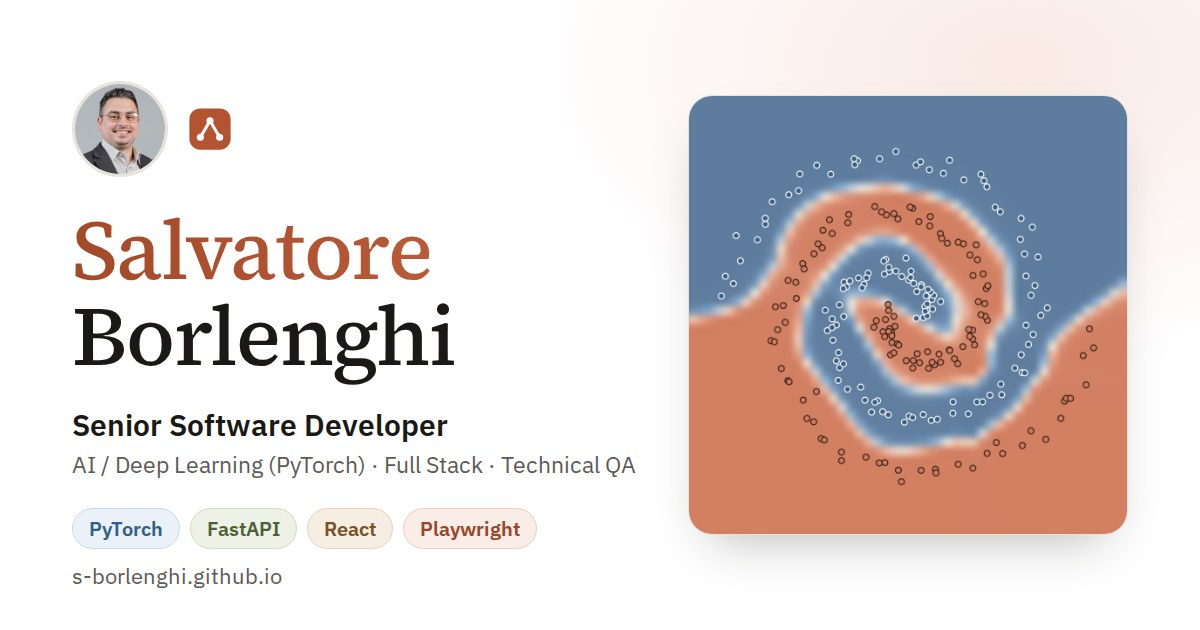
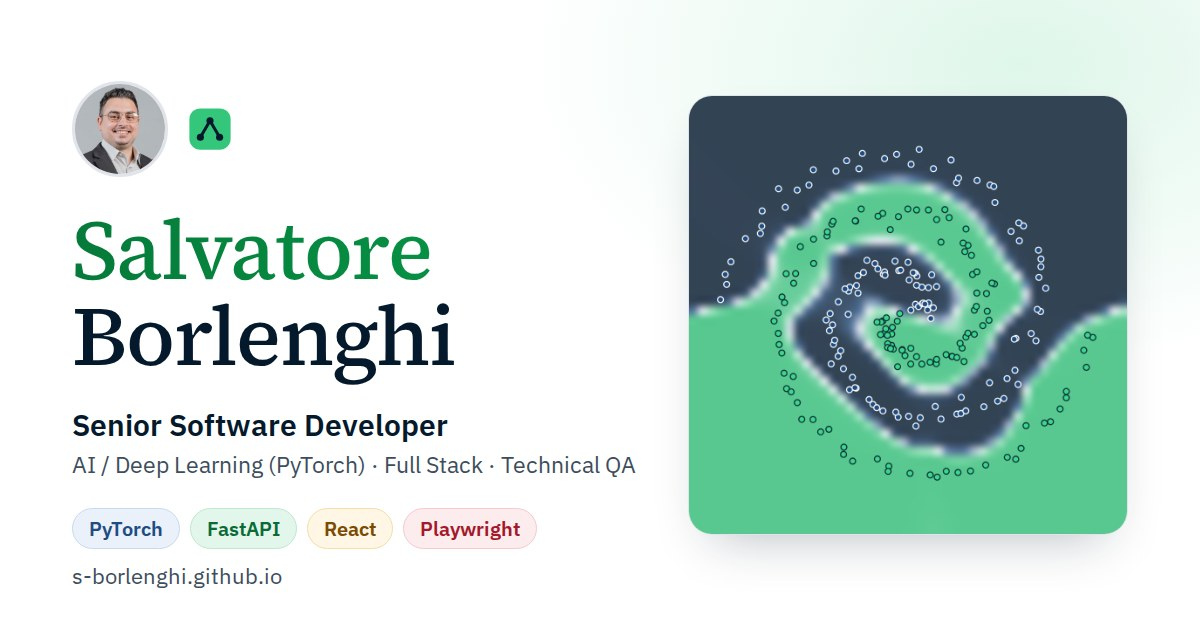
style: tonal buttons in dark theme to avoid glare

diff --git a/assets/css/style.css b/assets/css/style.css
@@ -1,28 +1,28 @@
 /* Salvatore Borlenghi, pagina personale.
-   Impaginazione ispirata a mui.com (fondo bianco, sezioni alternate), geometria,
-   colori caldi e titoli serif ispirati all'app Claude.
+   Impaginazione ispirata a mui.com (fondo bianco, sezioni alternate), geometria e titoli
+   serif ispirati all'app Claude. Palette propria: blu notte e verde morbido.
    Tema scuro predefinito, chiaro con il pulsante in alto. */
 
-/* Tema chiaro predefinito: bianco come mui.com, con i colori caldi di Claude */
+/* Tema chiaro predefinito: bianco, testi blu notte, verde morbido */
 :root {
-  --primary: #b4532f; --primary-hover: #9a4527; --primary-border: #9a4527; --on-primary: #ffffff;
-  --primary-text: #a34a29; --primary-a08: rgba(180,83,47,.06); --primary-a16: rgba(180,83,47,.1); --primary-a50: rgba(180,83,47,.45);
-  --warm-text: #a34a29; --warm-a16: rgba(180,83,47,.1);
-  --bg: #ffffff; --paper: #ffffff; --border: #e8e4dc;
-  --side: linear-gradient(180deg, #fbf7f2 0%, #f6efe7 100%);
-  --section-alt: linear-gradient(180deg, #ffffff 0%, #faf6f0 100%);
-  --text: #1a1915; --text-2: #5c5a55; --action-hover: #f5f2ec;
+  --primary: #34c77b; --primary-hover: #2bb36c; --primary-border: #2bb36c; --on-primary: #05192d;
+  --primary-text: #067a3a; --primary-a08: rgba(52,199,123,.08); --primary-a16: rgba(52,199,123,.16); --primary-a50: rgba(6,122,58,.45);
+  --warm-text: #067a3a; --warm-a16: rgba(52,199,123,.14);
+  --bg: #ffffff; --paper: #ffffff; --border: #e1e4ea;
+  --side: linear-gradient(180deg, #f3f4f8 0%, #eef8f2 100%);
+  --section-alt: linear-gradient(180deg, #ffffff 0%, #f3f4f8 100%);
+  --text: #05192d; --text-2: #3d4d5c; --action-hover: #f3f4f8;
   --header-bg: rgba(255,255,255,.88);
-  --card-shadow: 0 1px 2px rgba(26,25,21,.04), 0 2px 8px rgba(26,25,21,.04);
-  --grad: linear-gradient(90deg, #a34a29 0%, #c96442 100%);
-  --sel-bg: #f7e6dd; --sel-text: #8f3f22;
+  --card-shadow: 0 1px 2px rgba(5,25,45,.04), 0 2px 8px rgba(5,25,45,.05);
+  --grad: linear-gradient(90deg, #067a3a 0%, #07a04b 100%);
+  --sel-bg: #e3f6ec; --sel-text: #05502a;
   /* chip colorate */
-  --blue-bg: #eaf1f8; --blue-bd: #c9daec; --blue-tx: #2f5f8a;
-  --green-bg: #eef2e6; --green-bd: #d2dcbf; --green-tx: #4e6136;
-  --amber-bg: #f7eee3; --amber-bd: #e7d3ba; --amber-tx: #7a5224;
-  --red-bg: #faede7; --red-bd: #efcdbe; --red-tx: #9a4527;
+  --blue-bg: #eaf1fb; --blue-bd: #c8daf2; --blue-tx: #1f4c82;
+  --green-bg: #e3f6ec; --green-bd: #bfe8d0; --green-tx: #0b6b36;
+  --amber-bg: #fff6e5; --amber-bd: #f7dca6; --amber-tx: #7a4b00;
+  --red-bg: #fdecee; --red-bd: #f6c9cf; --red-tx: #a3192b;
   /* usati dalla demo */
-  --paper-2: #f6f2ec; --teal: #b4532f;
+  --paper-2: #f3f4f8; --teal: #07a04b;
 
   --radius: 16px; --radius-sm: 10px;
   --font: "IBM Plex Sans", "Helvetica Neue", Arial, sans-serif;
@@ -33,24 +33,24 @@
   padding-bottom: env(safe-area-inset-bottom, 0px);
   color-scheme: light;
 }
-/* Tema scuro: livelli ben separati (sfondo profondo, card più chiare con bordo e ombra) */
+/* Tema scuro: blu notte a livelli ben separati, verde morbido */
 :root[data-theme="dark"] {
-  --primary: #d97757; --primary-hover: #e08a6d; --primary-border: #c9694b; --on-primary: #1a1915;
-  --primary-text: #e8906f; --primary-a08: rgba(217,119,87,.10); --primary-a16: rgba(217,119,87,.18); --primary-a50: rgba(217,119,87,.5);
-  --warm-text: #e8906f; --warm-a16: rgba(217,119,87,.16);
-  --bg: #141311; --paper: #2b2a27; --border: #45423d;
-  --side: radial-gradient(ellipse 70% 60% at 85% 0%, rgba(217,119,87,.16), transparent 70%), #1f1e1b;
-  --section-alt: linear-gradient(180deg, #141311 0%, #1c1b18 100%);
-  --text: #f4f2ec; --text-2: #b9b5ab; --action-hover: rgba(244,242,236,.07);
-  --header-bg: rgba(20,19,17,.88);
+  --primary: #3dd68c; --primary-hover: #5fe0a2; --primary-border: #3dd68c; --on-primary: #05192d;
+  --primary-text: #4fdc97; --primary-a08: rgba(61,214,140,.08); --primary-a16: rgba(61,214,140,.16); --primary-a50: rgba(61,214,140,.5);
+  --warm-text: #4fdc97; --warm-a16: rgba(61,214,140,.14);
+  --bg: #05192d; --paper: #0d2b47; --border: #1e4266;
+  --side: radial-gradient(ellipse 70% 60% at 85% 0%, rgba(61,214,140,.10), transparent 70%), #08213a;
+  --section-alt: linear-gradient(180deg, #05192d 0%, #082139 100%);
+  --text: #ffffff; --text-2: #b6c2cf; --action-hover: rgba(255,255,255,.06);
+  --header-bg: rgba(5,25,45,.9);
   --card-shadow: 0 1px 2px rgba(0,0,0,.35), 0 6px 16px rgba(0,0,0,.25);
-  --grad: linear-gradient(90deg, #e8906f 0%, #f0b08f 100%);
-  --sel-bg: rgba(217,119,87,.22); --sel-text: #f5c1ab;
-  --blue-bg: rgba(106,155,204,.14); --blue-bd: rgba(106,155,204,.38); --blue-tx: #a9c6e3;
-  --green-bg: rgba(120,140,93,.18); --green-bd: rgba(120,140,93,.45); --green-tx: #bfcda6;
-  --amber-bg: rgba(212,162,127,.16); --amber-bd: rgba(212,162,127,.42); --amber-tx: #e6c4a8;
-  --red-bg: rgba(217,119,87,.16); --red-bd: rgba(217,119,87,.42); --red-tx: #f0ae95;
-  --paper-2: #1a1917; --teal: #e8906f;
+  --grad: linear-gradient(90deg, #4fdc97 0%, #8ae9b9 100%);
+  --sel-bg: rgba(61,214,140,.16); --sel-text: #a6f0c9;
+  --blue-bg: rgba(79,140,220,.16); --blue-bd: rgba(79,140,220,.4); --blue-tx: #a9c9f2;
+  --green-bg: rgba(61,214,140,.14); --green-bd: rgba(61,214,140,.4); --green-tx: #8ae9b9;
+  --amber-bg: rgba(245,190,90,.14); --amber-bd: rgba(245,190,90,.4); --amber-tx: #f7d59a;
+  --red-bg: rgba(240,110,120,.14); --red-bd: rgba(240,110,120,.4); --red-tx: #f7b3ba;
+  --paper-2: #05192d; --teal: #4fdc97;
   color-scheme: dark;
 }
 
@@ -78,7 +78,7 @@ a { color: var(--primary-text); text-decoration-color: var(--primary-a50); text-
 .ms { width: 1.25rem; height: 1.25rem; fill: currentColor; flex: none; display: inline-block; vertical-align: middle; }
 
 /* Accessibilità */
-.skip { position: absolute; left: 1rem; top: -4rem; z-index: 100; background: var(--primary); color: #fff; padding: .5rem 1rem; border-radius: var(--radius-sm); font-weight: 600; text-decoration: none; transition: top .15s var(--ease); }
+.skip { position: absolute; left: 1rem; top: -4rem; z-index: 100; background: var(--primary); color: var(--on-primary); padding: .5rem 1rem; border-radius: var(--radius-sm); font-weight: 600; text-decoration: none; transition: top .15s var(--ease); }
 .skip:focus { top: calc(.75rem + env(safe-area-inset-top, 0px)); }
 .sr-only { position: absolute; width: 1px; height: 1px; padding: 0; margin: -1px; overflow: hidden; clip: rect(0 0 0 0); white-space: nowrap; border: 0; }
 main:focus { outline: none; }
@@ -123,8 +123,8 @@ main:focus { outline: none; }
 .brand { display: inline-flex; align-items: center; gap: .625rem; font-family: var(--font); font-size: 1rem; font-weight: 600; letter-spacing: -.005em; color: var(--text); text-decoration: none; margin-right: 1.5rem; white-space: nowrap; }
 .logo { width: 1.875rem; height: 1.875rem; flex: none; }
 .logo rect { fill: var(--primary); }
-.logo path { fill: none; stroke: #ffffff; stroke-width: 2.2; stroke-linejoin: round; }
-.logo circle { fill: #ffffff; }
+.logo path { fill: none; stroke: #05192d; stroke-width: 2.2; stroke-linejoin: round; }
+.logo circle { fill: #05192d; }
 .menu { display: flex; gap: .125rem; margin-right: auto; }
 
 /* Card */
@@ -239,7 +239,7 @@ h3 { font-size: 1.125rem; line-height: 1.4; font-weight: 700; letter-spacing: -.
 .skill:first-child p { font-size: 1rem; max-width: 44rem; }
 .icon-badge { display: inline-grid; place-items: center; width: 2.5rem; height: 2.5rem; border-radius: var(--radius-sm); background: var(--primary-a16); border: 1px solid var(--border); color: var(--primary-text); flex: none; }
 .icon-badge .ms { width: 1.25rem; height: 1.25rem; }
-.skill:first-child .icon-badge { background: var(--primary); border-color: var(--primary-border); color: #fff; }
+.skill:first-child .icon-badge { background: var(--primary); border-color: var(--primary-border); color: var(--on-primary); }
 
 .list { list-style: none; margin: 0; padding: 0; }
 .list > li { display: flex; gap: 1rem; padding: 1.25rem 1.5rem; }
@@ -266,7 +266,7 @@ h3 { font-size: 1.125rem; line-height: 1.4; font-weight: 700; letter-spacing: -.
 .contact .mail { display: inline-block; font-size: clamp(1.25rem, 3vw, 1.5rem); font-weight: 600; margin-bottom: 1.75rem; word-break: break-word; }
 
 /* Pulsante "torna in cima", come il Fab di MUI */
-.fab { position: fixed; z-index: 20; right: calc(1.5rem + env(safe-area-inset-right, 0px)); bottom: calc(1.5rem + env(safe-area-inset-bottom, 0px)); display: grid; place-items: center; width: 3rem; height: 3rem; border-radius: 50%; background: var(--primary); color: #fff; box-shadow: 0 3px 5px -1px rgba(0,0,0,.2), 0 6px 10px 0 rgba(0,0,0,.14), 0 1px 18px 0 rgba(0,0,0,.12); transition: opacity .2s var(--ease), transform .2s var(--ease), visibility .2s, background-color .15s var(--ease); overflow: hidden; isolation: isolate; -webkit-tap-highlight-color: transparent; }
+.fab { position: fixed; z-index: 20; right: calc(1.5rem + env(safe-area-inset-right, 0px)); bottom: calc(1.5rem + env(safe-area-inset-bottom, 0px)); display: grid; place-items: center; width: 3rem; height: 3rem; border-radius: 50%; background: var(--primary); color: var(--on-primary); box-shadow: 0 3px 5px -1px rgba(0,0,0,.2), 0 6px 10px 0 rgba(0,0,0,.14), 0 1px 18px 0 rgba(0,0,0,.12); transition: opacity .2s var(--ease), transform .2s var(--ease), visibility .2s, background-color .15s var(--ease); overflow: hidden; isolation: isolate; -webkit-tap-highlight-color: transparent; }
 .fab .ms { width: 1.5rem; height: 1.5rem; }
 .fab.is-hidden { opacity: 0; visibility: hidden; transform: translateY(1rem) scale(.8); pointer-events: none; }
 /* Footer e pagina Privacy */
@@ -283,6 +283,12 @@ h3 { font-size: 1.125rem; line-height: 1.4; font-weight: 700; letter-spacing: -.
 @media (max-width: 600px) { .legal-card { padding: 1.5rem; } }
 .footer { padding-top: 2.5rem; padding-bottom: 2.5rem; font-size: .8125rem; color: var(--text-2); }
 
+/* Tema scuro: pulsanti "tonali" (verde trasparente), per evitare l'abbagliamento sul blu notte */
+:root[data-theme="dark"] .btn.contained { background: rgba(61,214,140,.18); border-color: rgba(61,214,140,.5); color: #8ae9b9; }
+:root[data-theme="dark"] .fab { background: #124644; color: #8ae9b9; border: 1px solid rgba(61,214,140,.5); }
+:root[data-theme="dark"] .skill:first-child .icon-badge { background: rgba(61,214,140,.18); border-color: rgba(61,214,140,.5); color: #8ae9b9; }
+:root[data-theme="dark"] .skip { background: #124644; color: #8ae9b9; }
+
 /* Passaggio morbido tra tema chiaro e scuro */
 .theme-anim, .theme-anim *, .theme-anim *::before { transition: background-color .3s var(--ease), color .3s var(--ease), border-color .3s var(--ease), fill .3s var(--ease) !important; }
 
@@ -290,6 +296,8 @@ h3 { font-size: 1.125rem; line-height: 1.4; font-weight: 700; letter-spacing: -.
 @media (hover: hover) {
   a:hover { text-decoration-color: currentColor; }
   .btn.contained:hover { background: var(--primary-hover); }
+  :root[data-theme="dark"] .btn.contained:hover { background: rgba(61,214,140,.26); border-color: #3dd68c; }
+  :root[data-theme="dark"] .fab:hover { background: #17564f; }
   .btn.outlined:hover { background: var(--action-hover); border-color: var(--primary-a50); }
   .btn.outlined:hover .ms { color: var(--text); }
   .text-btn:hover, .segmented > *:hover { background: var(--action-hover); }

diff --git a/404.html b/404.html
@@ -12,14 +12,14 @@
   @font-face { font-family: "IBM Plex Sans"; src: url("/assets/fonts/ibm-plex-sans-latin-wght.woff2") format("woff2"); font-weight: 100 700; font-display: swap; }
   :root { box-sizing: border-box; padding-top: env(safe-area-inset-top, 0px); padding-bottom: env(safe-area-inset-bottom, 0px); color-scheme: light; }
   html, body { height: 100%; margin: 0; }
-  body { background: #ffffff; color: #1a1915; font-family: "IBM Plex Sans", Arial, sans-serif; display: grid; place-items: center; text-align: center; padding: 1.5rem; }
-  .code { font-family: "Source Serif 4", Georgia, serif; font-size: clamp(4rem, 18vw, 8rem); line-height: 1; color: #a34a29; margin: 0; }
+  body { background: #ffffff; color: #05192d; font-family: "IBM Plex Sans", Arial, sans-serif; display: grid; place-items: center; text-align: center; padding: 1.5rem; }
+  .code { font-family: "Source Serif 4", Georgia, serif; font-size: clamp(4rem, 18vw, 8rem); line-height: 1; color: #067a3a; margin: 0; }
   h1 { font-family: "Source Serif 4", Georgia, serif; font-weight: 500; font-size: 1.75rem; margin: .75rem 0 .5rem; }
-  p { color: #5c5a55; margin: 0 0 2rem; }
+  p { color: #3d4d5c; margin: 0 0 2rem; }
   a { display: inline-block; margin: .25rem; padding: .7rem 1.2rem; border-radius: 10px; font-weight: 600; text-decoration: none; }
-  .main { background: #b4532f; color: #ffffff; }
-  .alt { border: 1px solid #e8e4dc; color: #1a1915; background: #ffffff; }
-  a:focus-visible { outline: 3px solid rgba(180,83,47,.45); outline-offset: 2px; }
+  .main { background: #34c77b; color: #05192d; }
+  .alt { border: 1px solid #e1e4ea; color: #05192d; background: #ffffff; }
+  a:focus-visible { outline: 3px solid rgba(6,122,58,.45); outline-offset: 2px; }
 </style>
 </head>
 <body>

diff --git a/assets/js/nn-demo.js b/assets/js/nn-demo.js
@@ -12,8 +12,8 @@
   const btn = document.getElementById("nn-toggle");
   const stEpoch = document.getElementById("st-epoch"), stLoss = document.getElementById("st-loss"), stAcc = document.getElementById("st-acc");
   const SIZES = [2, 16, 16, 1], MAX_EPOCHS = 3000, STEPS_PER_FRAME = 2, GRID = 50, SPAN = 1.15;
-  // Colori: dal blu (classe 0) al terracotta (classe 1), passando per un tono carta sul confine
-  const VIRIDIS = [[58, 96, 138], [106, 155, 204], [226, 219, 204], [229, 157, 128], [201, 100, 66]];
+  // Colori: dal blu notte (classe 0) al verde (classe 1), passando per un grigio chiaro sul confine
+  const VIRIDIS = [[5, 25, 45], [31, 76, 130], [214, 222, 232], [140, 220, 180], [52, 190, 120]];
   const viridis = p => {
     const x = Math.min(Math.max(p, 0), 1) * (VIRIDIS.length - 1), i = Math.min(Math.floor(x), VIRIDIS.length - 2), f = x - i;
     return VIRIDIS[i].map((v, k) => Math.round(v + (VIRIDIS[i + 1][k] - v) * f));
@@ -130,8 +130,8 @@
     for (const [x, y, lab] of data) {
       const px = (x + SPAN) / (2 * SPAN) * w, py = (SPAN - y) / (2 * SPAN) * h;
       ctx.beginPath(); ctx.arc(px, py, 3.4 * dpr, 0, 2 * Math.PI);
-      ctx.fillStyle = lab ? "#D97757" : "#3A608A"; ctx.fill();
-      ctx.lineWidth = 1.3 * dpr; ctx.strokeStyle = lab ? "rgba(31,30,29,.85)" : "rgba(250,249,245,.95)"; ctx.stroke();
+      ctx.fillStyle = lab ? "#3DD68C" : "#1F4C82"; ctx.fill();
+      ctx.lineWidth = 1.3 * dpr; ctx.strokeStyle = lab ? "rgba(5,25,45,.85)" : "rgba(255,255,255,.95)"; ctx.stroke();
     }
     const lw = lc.width, lh = lc.height;
     lctx.clearRect(0, 0, lw, lh);

diff --git a/index.html b/index.html
@@ -46,10 +46,10 @@
 <style>
   :root { box-sizing: border-box; padding-top: env(safe-area-inset-top, 0px); padding-bottom: env(safe-area-inset-bottom, 0px); }
   html, body { height: 100%; margin: 0; }
-  body { background: #ffffff; color: #1a1915; font-family: "Helvetica Neue", Arial, sans-serif; display: grid; place-items: center; text-align: center; }
+  body { background: #ffffff; color: #05192d; font-family: "Helvetica Neue", Arial, sans-serif; display: grid; place-items: center; text-align: center; }
   h1 { font-size: 1.6rem; margin: 0 0 1.25rem; }
   a { display: inline-block; margin: 0 .35rem; padding: .6rem 1.2rem; border: 1px solid #3e3d39; border-radius: 10px; color: #ffffff; background: #30302e; text-decoration: none; font-weight: 600; }
-  a:hover { border-color: #b4532f; color: #a34a29; }
+  a:hover { border-color: #34c77b; color: #067a3a; }
 </style>
 </head>
 <body>

diff --git a/assets/js/theme.js b/assets/js/theme.js
@@ -15,7 +15,7 @@
     const label = t === "dark" ? btn.dataset.labelLight : btn.dataset.labelDark;
     btn.setAttribute("aria-label", label);
     btn.title = label;
-    if (meta) meta.setAttribute("content", t === "dark" ? "#141311" : "#ffffff");
+    if (meta) meta.setAttribute("content", t === "dark" ? "#05192d" : "#ffffff");
   }
 
   btn.addEventListener("click", () => {

diff --git a/README.md b/README.md
@@ -15,7 +15,7 @@ I build deep learning models and bring them into real applications. Five years o
 - **Principles.** Three verified quotes from computing pioneers (Turing 1950, Dijkstra 1970, Fowler 1999), one per area of work.
 - **Italian / English.** The root page sends each visitor to `/it/` or `/en/` based on their saved choice or browser language. Both versions are static pages linked with `hreflang`, so search engines index both.
 - **No framework, no build step.** Plain HTML, CSS and JavaScript, served as-is by GitHub Pages.
-- **Design.** Layout inspired by mui.com (white background, alternating tinted sections); rounded geometry, warm colours with a terracotta accent and serif headings inspired by the Claude app. Light theme by default, dark theme on request. Self-hosted IBM Plex Sans and Source Serif 4, Material icons as inline SVG.
+- **Design.** Layout inspired by mui.com (white background, alternating tinted sections), rounded geometry and serif headings inspired by the Claude app, and an own palette: deep navy with a soft green accent. Light theme by default, dark theme on request. Self-hosted IBM Plex Sans and Source Serif 4, Material icons as inline SVG.
 - **Accessible.** Skip link, keyboard focus, screen reader labels and status messages, large touch targets, high contrast mode, `prefers-reduced-motion`. Checked with axe-core.
 - **Light and dark theme.** The theme switch remembers the visitor's choice.
 - **Responsive.** From 320 px phones to wide desktops.
@@ -56,7 +56,7 @@ I build deep learning models and bring them into real applications. Five years o
 
 - Icons: Material Symbols by Google (Apache License 2.0); LinkedIn and GitHub icons from @mui/icons-material (MIT)
 - Fonts: IBM Plex Sans and Source Serif 4 (SIL Open Font License 1.1)
-- Geometry and serif headings inspired by the Claude app; colours inspired by mui.com
+- Layout inspired by mui.com; geometry and serif headings inspired by the Claude app
 
 ## License
 
